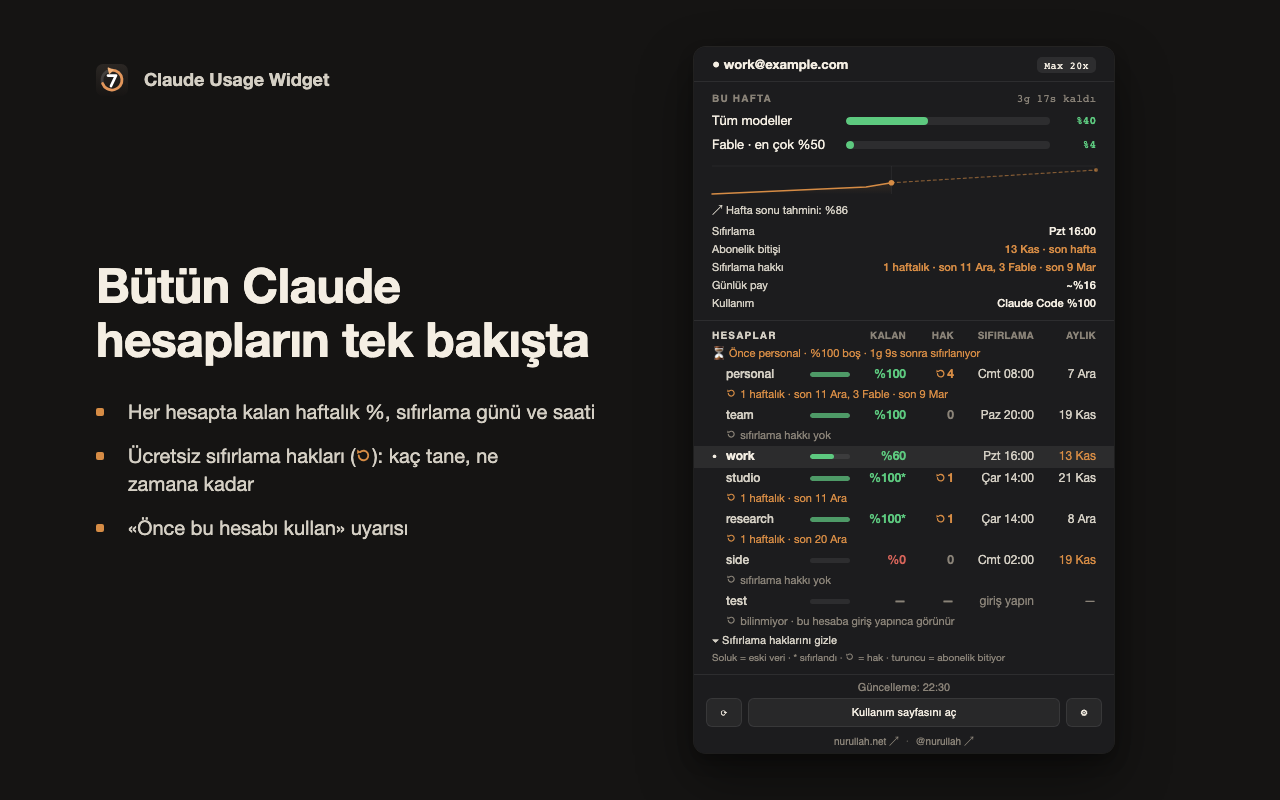
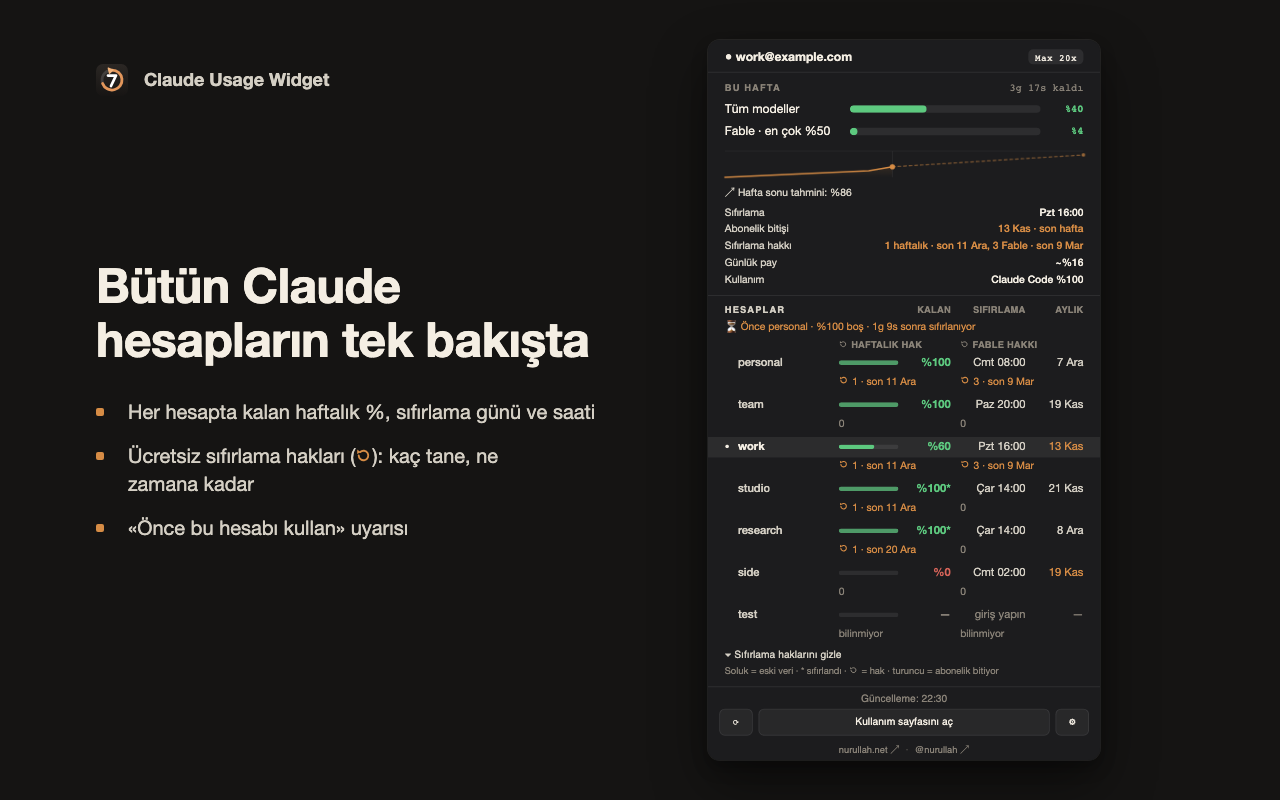
store: haklar-açık denetimi; README tanıtım kutusu/marquee dile göre değil
- render.cjs: 01-accounts'ta haklar açık değilse FAILS verir
- README: Chrome belgesine göre yalnız ekran görüntüleri dile göre yüklenir;
  tanıtım kutusu ve marquee tek (default_locale = en)

Claude-Session: https://claude.ai/code/session_01PtQGm3yqA9ocQCpcirP92o

Changed region(s): [[0.5312, 0.0625, 0.875, 0.9375], [0.7812, 0.0625, 0.875, 0.1562]]

diff --git a/store-assets/listing/README.md b/store-assets/listing/README.md
@@ -15,16 +15,22 @@ Her dosyada aynı üç başlık var: Item name · Short description · Detailed 
 
 ## Görseller — dev console'da nereye
 
-Yerler: eklenti → **Store listing** sekmesi → **Graphic assets** bölümü. Dil seçicide hangi dil açıksa, yüklenen görseller o dile ait olur. Bir dil için görsel yüklenmezse varsayılan dilin (English) görselleri gösterilir. Dil başına görsel alanı konsolda görünmüyorsa yalnız English'e yükle.
+Yerler: eklenti → **Store listing** sekmesi → **Graphic assets** bölümü.
 
-| Konsol alanı | Ölçü | Dosya (dil başına) |
+Chrome'un belgesine göre (developer.chrome.com/docs/webstore/cws-dashboard-listing, 13 Kas 2026'da okundu):
+- Ekran görüntüleri dile göre yüklenebilir: «provide a description, screenshots, and promotional video in the locales your extension supports».
+- Tanıtım kutusu ve marquee dile göre yüklenemez: «The small tile and Marquee promo tile cannot be localized». Bu iki alana yalnız varsayılan dilin dosyası girer: `manifest.json` → `default_locale` = `en`.
+- Belgede yerel görseli olmayan dilin neyi göreceği açıkça yazmıyor. Gösterim sırası yerel görselleri önce, genel görselleri sonra sayıyor; yani büyük olasılıkla genel görseller gösterilir. Bu yüzden genel (dil seçilmemiş) ekran görüntüsü alanına `en` görsellerini yükle.
+
+| Konsol alanı | Ölçü | Dosya |
 |---|---|---|
 | **Store icon** | 128×128 | `store-assets/store-icon-128.png` (bütün diller için tek dosya) |
-| **Screenshots** (en çok 5; sırayla yükle) | 1280×800 | `store-assets/screenshots/<dil>/01-accounts.png` → `02-details.png` → `03-hide.png` |
-| **Small promo tile** | 440×280 | `store-assets/promo/<dil>/tile-440x280.png` |
-| **Marquee promo tile** | 1400×560 | `store-assets/promo/<dil>/marquee-1400x560.png` |
+| **Screenshots** (dile göre; en çok 5; sırayla yükle) | 1280×800 | `store-assets/screenshots/<dil>/01-accounts.png` → `02-details.png` → `03-hide.png` |
+| **Small promo tile** (dile göre değil) | 440×280 | `store-assets/promo/en/tile-440x280.png` |
+| **Marquee promo tile** (dile göre değil) | 1400×560 | `store-assets/promo/en/marquee-1400x560.png` |
 
 - `<dil>` klasör adı bu klasördeki `.md` dosyalarıyla aynıdır: en, tr, de, es, fr, it, nl, cs, ro, ru, uk, ja, ko, zh_TW, th.
+- Öteki dillerin `promo/<dil>/` dosyaları mağazaya yüklenmez; sosyal medya, web sitesi gibi dile özel kullanımlar için hazır durur.
 - Ekran görüntüleri: (1) bütün hesaplar, sıfırlama hakları açık · (2) açık hesabın ayrıntıları ve araç çubuğundaki simge · (3) hesabı gizle ya da sil.
 - Yeniden üretmek için depo kökünde `node store-assets/shots/render.cjs` komutunu çalıştır. Yalnız birkaç dil için: `node store-assets/shots/render.cjs tr ja`. Kaynak tek şablondur: `store-assets/shots/shot.html` (popup `popup.html`'den gerçek kodla çizilir). Metinler `store-assets/shots/copy.json` dosyasındadır. Betik sonunda ölçüm özetini basar; `FAILS 0` görülmeli.
 - Kökteki `store-assets/screenshots/*.png`, `promo-tile-440x280.png`, `store-marquee-1400x560.*` ve `store-0*.html` eski tasarımdır. Yükleme için kullanma.
